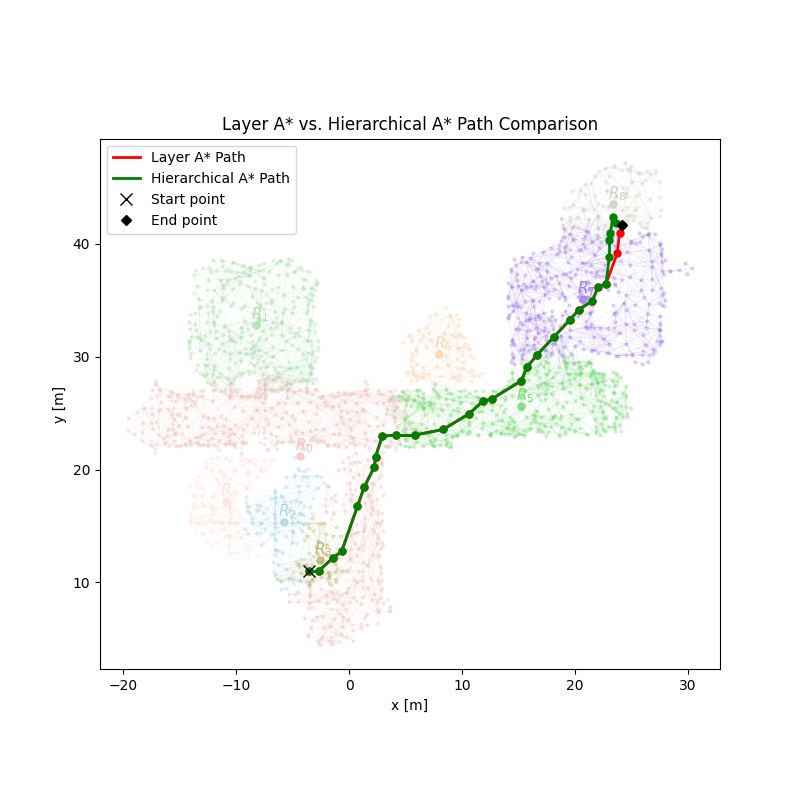
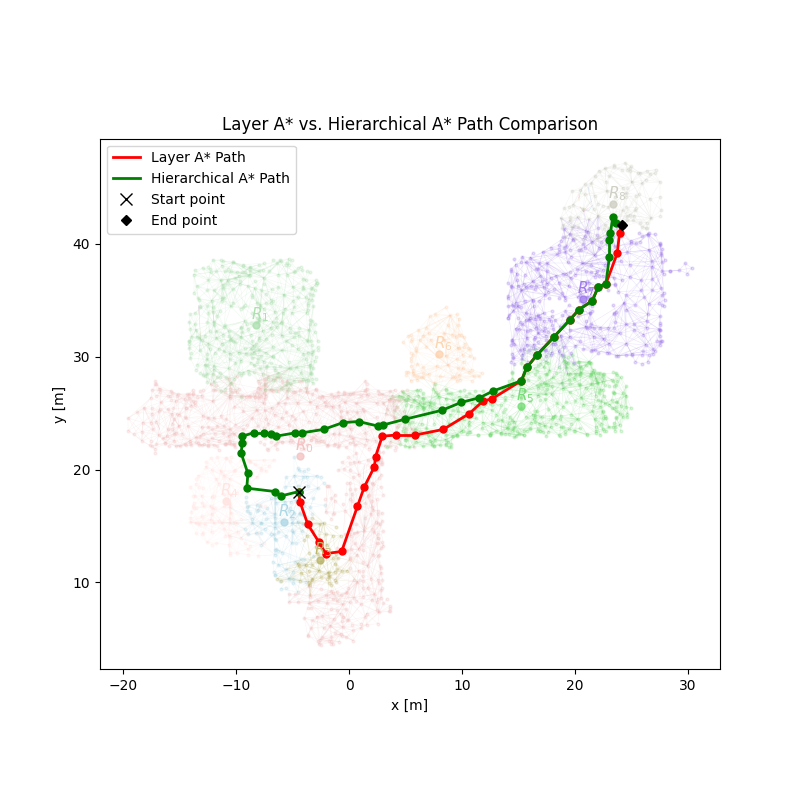
Add llm querying

Changed region(s): [[0.2812, 0.4688, 0.6562, 0.6562], [0.375, 0.625, 0.4375, 0.7188]]

diff --git a/comparisons.py b/comparisons.py
@@ -1,0 +1,122 @@
+from astar import *
+import pickle
+import matplotlib.pyplot as plt
+
+
+def save_data(N):
+    path_to_dsg = "./DSGs/uhumans2/backend/dsg.json"
+    path_to_dsg = pathlib.Path(path_to_dsg).expanduser().absolute()
+
+    G = dsg.DynamicSceneGraph.load(str(path_to_dsg))
+    room_layer = G.get_layer(dsg.DsgLayers.ROOMS)
+    room_nodes = list(room_layer.nodes)
+    num_rooms = len(room_nodes)
+    room_sizes = np.zeros(num_rooms, dtype=int)
+    for idx in range(num_rooms):
+        room_sizes[idx] = len(room_nodes[idx].children())
+
+    in_room_place_layer = {'times':[], 'costs':[]}
+    in_room_hierarchical = {'times':[], 'costs':[]}
+    cross_room_place_layer = {'times':[], 'costs':[]}
+    cross_room_hierarchical = {'times':[], 'costs':[]}
+
+    # randomly select rooms and nodes from rooms to plan paths between them
+    # record resluts in different dicts to distinguish between in_room and cross_room planned paths
+    room_indices = np.random.choice(np.arange(num_rooms), (N, 2))
+
+    t0 = time.time()
+    for idx in range(N):
+        room_idx1, room_idx2 = room_indices[idx]
+        if room_idx1 == room_idx2:
+            node_idx1, node_idx2 = np.random.choice(np.arange(room_sizes[room_idx1]), 2, replace=False)
+        else:
+            node_idx1 = np.random.choice(np.arange(room_sizes[room_idx1]))
+            node_idx2 = np.random.choice(np.arange(room_sizes[room_idx2]))
+        place1 = G.get_node(list(room_nodes[room_idx1].children())[node_idx1])
+        place2 = G.get_node(list(room_nodes[room_idx2].children())[node_idx2])
+        t1 = time.time()
+        _, layer_cost = get_info(*layer_astar(G, place1, place2, node_dist))
+        t2 = time.time()
+        _, hier_cost = hierarchical_planner(G, place1, place2, node_dist)
+        t3 = time.time()
+        if room_idx1 == room_idx2:
+            in_room_place_layer['times'].append(t2 - t1)
+            in_room_place_layer['costs'].append(layer_cost)
+            in_room_hierarchical['times'].append(t3 - t2)
+            in_room_hierarchical['costs'].append(hier_cost)
+        else:
+            cross_room_place_layer['times'].append(t2 - t1)
+            cross_room_place_layer['costs'].append(layer_cost)
+            cross_room_hierarchical['times'].append(t3 - t2)
+            cross_room_hierarchical['costs'].append(hier_cost)
+
+    tf = time.time()
+    print(f"Total compute time: {tf - t0}")
+
+    data = {"in_room_place_layer": in_room_place_layer, 
+            "in_room_hierarchical": in_room_hierarchical, 
+            "cross_room_place_layer": cross_room_place_layer, 
+            "cross_room_hierarchical": cross_room_hierarchical}
+    with open("result_dicts.pkl", "wb") as outfile:
+        pickle.dump(data, outfile)
+
+
+if __name__ == "__main__":
+    np.random.seed(0) # not working???
+    N = 1000
+    # save_data(N) # comment out if re-compute not needed, takes a while
+
+    with open("result_dicts.pkl", "rb") as f:
+        data = pickle.load(f)
+    
+    in_room_place_layer = data["in_room_place_layer"]
+    in_room_hierarchical = data["in_room_hierarchical"]
+    cross_room_place_layer = data["cross_room_place_layer"]
+    cross_room_hierarchical = data["cross_room_hierarchical"]
+
+    print(f"In_room results ({len(in_room_hierarchical['times'])}): ")
+    optimal_costs_in = np.array(in_room_place_layer['costs'])
+    hier_costs_in = np.array(in_room_hierarchical['costs'])
+    time_ratios_in = np.array(in_room_hierarchical['times']) / np.array(in_room_place_layer['times'])
+    print(f"Time ratio = {np.mean(time_ratios_in)}")
+    print(f"Cost ratio = {np.mean(hier_costs_in / optimal_costs_in)}")
+    print(f"Time ratio stdev = {np.std(time_ratios_in)}")
+    print(f"Cost ratio stdev = {np.std(hier_costs_in / optimal_costs_in)}")
+    print()
+
+    print(f"Cross_room results ({len(cross_room_hierarchical['times'])}): ")
+    optimal_costs_cross = np.array(cross_room_place_layer['costs'])
+    hier_costs_cross = np.array(cross_room_hierarchical['costs'])
+    time_ratios_cross = np.array(cross_room_hierarchical['times']) / np.array(cross_room_place_layer['times'])
+    print(f"Time ratio = {np.mean(time_ratios_cross)}")
+    print(f"Cost ratio = {np.mean(hier_costs_cross / optimal_costs_cross)}")
+    print(f"Time ratio stdev = {np.std(time_ratios_cross)}")
+    print(f"Cost ratio stdev = {np.std(hier_costs_cross / optimal_costs_cross)}")
+    print()
+
+    print(f"Combined results ({optimal_costs_in.size + optimal_costs_cross.size}): ")
+    print(f"Time ratio = {np.mean(np.concatenate((time_ratios_in, time_ratios_cross)))}")
+    print(f"Cost ratio = {np.mean(np.concatenate((hier_costs_in, hier_costs_cross)) / np.concatenate((optimal_costs_in, optimal_costs_cross)))}")
+    print(f"Time ratio stdev = {np.std(np.concatenate((time_ratios_in, time_ratios_cross)))}")
+    print(f"Cost ratio stdev = {np.std(np.concatenate((hier_costs_in, hier_costs_cross)) / np.concatenate((optimal_costs_in, optimal_costs_cross)))}")
+
+    alpha = 0.5
+    fig, ax = plt.subplots(figsize=(8, 10))
+    ax.scatter(optimal_costs_in, hier_costs_in / optimal_costs_in, marker='.', alpha=alpha, label="in room")
+    ax.scatter(optimal_costs_cross, hier_costs_cross / optimal_costs_cross, marker='.', alpha=alpha, label="cross room")
+    # ax.set_yscale("log")
+    ax.set_xlabel("Optimal path length [m]")
+    ax.set_ylabel("Path length ratio")
+    ax.legend()
+    ax.set_title("Hierarchical Planner Cost Suboptimality wrt. True Shortest Path Length")
+    fig.savefig("plots/costs.png")
+
+    fig, ax = plt.subplots(figsize=(8, 10))
+    ax.scatter(optimal_costs_in, time_ratios_in, marker='.', alpha=alpha,  label="in room")
+    ax.scatter(optimal_costs_cross, time_ratios_cross, marker='.', alpha=alpha, label="cross room")
+    ax.set_yscale("log")
+    ax.set_xlabel("Optimal path length [m]")
+    ax.set_ylabel("Compute time ratio")
+    ax.legend()
+    ax.set_title("Hierarchical Planner Compute Efficiency wrt. True Shortest Path Length")
+    fig.savefig("plots/times.png")

diff --git a/astar_experiments.py b/astar_experiments.py
@@ -14,36 +14,33 @@ path_to_dsg = pathlib.Path(path_to_dsg).expanduser().absolute()
 G = dsg.DynamicSceneGraph.load(str(path_to_dsg))
 dsg.add_bounding_boxes_to_layer(G, dsg.DsgLayers.ROOMS)
 
-print("--- Testing place layer A* ---")
+# Select start and end nodes
 room_layer = G.get_layer(dsg.DsgLayers.ROOMS)
 room_nodes = list(room_layer.nodes)
-place1 = G.get_node(list(room_nodes[3].children())[0])
-place2 = G.get_node(list(room_nodes[8].children())[10])
+# start_place = G.get_node(list(room_nodes[3].children())[0])
+start_place = G.get_node(list(room_nodes[2].children())[0])
+end_place = G.get_node(list(room_nodes[8].children())[10])
+print(f"Start: {start_place}")
+print(f"End: {end_place}")
+
+print("--- Testing place layer A* ---")
 time1 = time.time()
-path_list_layer, total_cost = get_info(*layer_astar(G, place1, place2, node_dist))
+path_list_layer, total_cost = get_info(*layer_astar(G, start_place, end_place, node_dist))
 time2 = time.time()
-print(f"Start: {place1}")
-print(f"End: {place2}")
 print(f"Compute time: {(time2 - time1):.5f} sec")
 print(f"Cost: {total_cost:.3f} \n")
 
 print("--- Testing hierarchical planner A* ---")
-room_layer = G.get_layer(dsg.DsgLayers.ROOMS)
-room_nodes = list(room_layer.nodes)
-place1 = G.get_node(list(room_nodes[3].children())[0])
-place2 = G.get_node(list(room_nodes[8].children())[10])
 time1 = time.time()
-path_list_hierarchical, total_cost = hierarchical_planner(G, place1, place2, node_dist)
+path_list_hierarchical, total_cost = hierarchical_planner(G, start_place, end_place, node_dist)
 time2 = time.time()
-print(f"Start: {place1}")
-print(f"End: {place2}")
 print(f"Compute time: {(time2 - time1):.5f} sec")
 print(f"Cost: {total_cost:.3f} \n")
 
 # Plot the two paths on top of the DSG in 2D
 print("--- Plotting paths ---")
-start_pos = place1.attributes.position
-end_pos = place2.attributes.position
+start_pos = start_place.attributes.position
+end_pos = end_place.attributes.position
 places_layer = G.get_layer(dsg.DsgLayers.PLACES)
 plt.figure(figsize=(8, 8))
 
@@ -96,7 +93,7 @@ plt.plot(end_pos[0], end_pos[1], 'D', color='black', markersize=5, label='End po
 
 plt.xlabel("x [m]")
 plt.ylabel("y [m]")
-plt.title("Layer A* vs. Hierarchical A* Path Comparison")
+plt.title("Place Layer A* vs. Hierarchical A* Path Comparison")
 plt.legend()
 plt.gca().set_aspect('equal', adjustable='box')  # ensure physical aspect ratio is maintained
 plt.savefig("plots/astar_experiment.png")

diff --git a/query_llm.py b/query_llm.py
@@ -1,0 +1,31 @@
+from transformers import pipeline
+
+
+def query_model(question, model_name='EleutherAI/gpt-neo-2.7B'):
+    """
+    Queries an open-source LLM model and returns the response.
+
+    Parameters:
+    - question (str): The question or prompt to send to the model.
+    - model_name (str): Identifier for the model to use. Defaults to GPT-Neo 2.7B.
+
+    Returns:
+    - str: The model's response to the question.
+    """
+    # Initialize the model and tokenizer
+    generator = pipeline('text-generation', model=model_name)
+
+    # Generate the response
+    response = generator(question, truncation=True, max_length=50, num_return_sequences=1)
+
+    # Extract and return the text of the first (and only) sequence
+    return response[0]['generated_text']
+
+
+objects = ["fan", "papers", "keyboard", "laptop", "mouse", "trashcan", "chair", "plant", "painting", "couch"]
+question = "I want to sit comfortably, where shall I go?"
+options_prompt = "Please choose from the following options: " + ", ".join(objects) + ". Please only type the name of the object."
+prompt = question + " " + options_prompt
+print(prompt)
+# response = query_model(prompt, 'mistralai/Mistral-7B-v0.1')
+# print(response)
